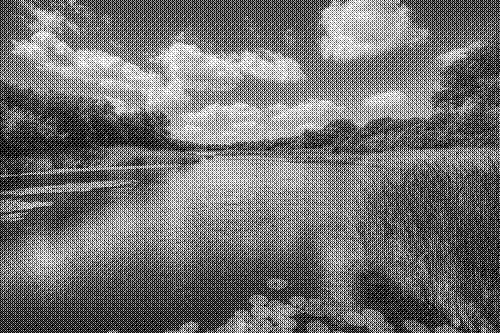
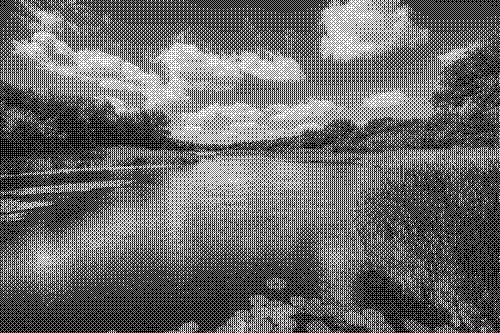
Corrected bayers ordered dithering to ensure it works as intended. The colour quantisation method wasn't being properly scaled to 255 colour space. Reorded the methods so they can be JIT compiled through Numba as static methods.

diff --git a/ditherer/ditherAlgorithm.py b/ditherer/ditherAlgorithm.py
@@ -1,7 +1,7 @@
 from abc import ABC, abstractmethod
 import numpy as np
 import matplotlib.pyplot as plt
-import numba
+from numba import njit
 import math
 
 class DitherAlgorithm(ABC):
@@ -9,7 +9,43 @@ class DitherAlgorithm(ABC):
     def ditherImage(self, pixArray, values, valueThresholds=None):
         pass
 
+
 class BayerOrdered(DitherAlgorithm):
+    @staticmethod
+    @njit
+    def _bayerDitherUnevenThreshold(pixArray, valueThresholds, matrix):
+        width, height = pixArray.shape
+        matrixWidth, matrixHeight = matrix.shape
+        for y in range(height):
+            for x in range(width):
+                ditherX = x % matrixWidth
+                ditherY = y % matrixHeight
+                ditherFactor = (matrix[ditherX, ditherY]  * (1/matrix.size)) - 0.5
+                ditherValue = max(0, min(255, pixArray[x, y] + (ditherFactor *  255)))
+                bestMatch = 0
+                bestDist = abs(valueThresholds[0] - ditherValue)
+                for i in range(1, len(valueThresholds)):
+                    dist = abs(valueThresholds[i] - ditherValue)
+                    if dist < bestDist:
+                        bestDist = dist
+                        bestMatch = i
+                pixArray[x, y] = valueThresholds[bestMatch]
+        return np.clip(pixArray, 0, 255)
+
+    @staticmethod
+    @njit
+    def _bayerDitherQuantised(pixArray, values, matrix):
+        width, height = pixArray.shape
+        matrixWidth, matrixHeight = matrix.shape
+        for y in range(height):
+            for x in range(width):
+                ditherX = x % matrixWidth
+                ditherY = y % matrixHeight
+                ditherFactor = (matrix[ditherX, ditherY]  * (1/matrix.size)) - 0.5
+                ditherValue = max(0, min(255, pixArray[x, y] + (ditherFactor *  255)))
+                pixArray[x, y] = math.floor(ditherValue * (values-1) / 255 + 0.5) * 255 / (values-1)
+        return np.clip(pixArray, 0, 255)
+
     def __init__(self):
         self.__matrixSize = 2
 
@@ -22,45 +58,51 @@ class BayerOrdered(DitherAlgorithm):
         matrix = matrix + np.tile(prevMatrix, (2, 2)) * 4
         return matrix
         
-    def ditherImage(self, pixArray, values=4, valueThresholds=None):
+    def ditherImage(self, pixArray, values, valueThresholds=None):
         matrix = self.__generateThresholdMap(self.__matrixSize)
-        width, height = pixArray.shape
-        matrixWidth, matrixHeight = matrix.shape
-        if valueThresholds is None or len(valueThresholds) != values:
-            valueThresholds = np.linspace(0, 255, values).astype(np.float32)
-        for y in range(height):
-            for x in range(width):
-                ditherX = x % matrixWidth
-                ditherY = y % matrixHeight
-                ditherValue = (matrix[ditherX, ditherY]  * (1/matrix.size)) - 0.5
-                ditherColour = pixArray[x, y] + (ditherValue *  255)
-                newColour = math.floor(ditherColour * (values-1) + 0.5) / (values-1)
-                colourIndex = (np.abs(valueThresholds - newColour)).argmin()
-                pixArray[x, y] = valueThresholds[colourIndex]
-        return np.clip(pixArray, 0, 255)
+        if valueThresholds is None:
+            return self._bayerDitherQuantised(pixArray, values, matrix)
+        else:
+            return self._bayerDitherUnevenThreshold(pixArray, valueThresholds, matrix)
+
     
     def setMatrixSize(self, value):
         self.__matrixSize = value if type(value) is int and value > 1 else self.__matrixSize
 
+
+
 class FloydSteinberg(DitherAlgorithm):
-    def ditherImage(self, pixArray, values=4, valueThresholds=None):
+
+    @staticmethod
+    @njit
+    def _floydSteinbergDither(pixArray, valueThresholds):
         width, height = pixArray.shape
-        if valueThresholds is None or len(valueThresholds) != values:
-            valueThresholds = np.linspace(0, 255, values).astype(np.float32)
         for y in range(height):
             for x in range(width):
                 oldPixel = pixArray[x, y]
-                #newPixel = 255 if oldPixel > 127 else 0
-                colourIndex = (np.abs(valueThresholds - oldPixel)).argmin()
-                newPixel = valueThresholds[colourIndex]
+                bestMatch = 0
+                bestDist = abs(valueThresholds[0] - oldPixel)
+                for i in range(1, len(valueThresholds)):
+                    dist = abs(valueThresholds[i] - oldPixel)
+                    if dist < bestDist:
+                        bestDist = dist
+                        bestMatch = i
+                newPixel = valueThresholds[bestMatch]
                 pixArray[x, y] = newPixel
                 quantError = oldPixel - newPixel
-                if xInBounds := x + 1 < width:
-                    pixArray[x + 1][y] = pixArray[x + 1][y] + quantError * 7/16
+                xInBounds = x + 1 < width
+                if xInBounds:
+                    pixArray[x + 1, y] = pixArray[x + 1, y] + quantError * 7/16
                 if y + 1 < height:
                     if x-1 >= 0:
-                        pixArray[x - 1][y + 1] = pixArray[x - 1][y + 1] + quantError * 3/16
-                    pixArray[x][y + 1] = pixArray[x][y + 1] + quantError * 5/16
+                        pixArray[x - 1, y + 1] = pixArray[x - 1, y + 1] + quantError * 3/16
+                    pixArray[x, y + 1] = pixArray[x, y + 1] + quantError * 5/16
                     if xInBounds:
-                        pixArray[x + 1][y + 1] = pixArray[x + 1][y + 1] + quantError * 1/16
-        return np.clip(pixArray, 0, 255)
+                        pixArray[x + 1, y + 1] = pixArray[x + 1, y + 1] + quantError * 1/16
+        return pixArray
+
+    def ditherImage(self, pixArray, values, valueThresholds=None):
+        if valueThresholds is None or len(valueThresholds) != values:
+            valueThresholds = np.linspace(0, 255, values).astype(np.float32)
+
+        return self._floydSteinbergDither(pixArray, valueThresholds)

diff --git a/main.py b/main.py
@@ -1,10 +1,13 @@
 from ditherer import ditherer as d
 from ditherer import ditherAlgorithm as da
 import matplotlib.pyplot as plt
+import numpy as np
 
 ed = d.ImageDitherer()
 filepath = r"assets\testInput2Colour.png"
-# ed.dither(filepath, da.FloydSteinberg())
+fs = da.FloydSteinberg()
 bo = da.BayerOrdered()
-bo.setMatrixSize(4)
+
 ed.dither(filepath, bo)
+
+

diff --git a/ditherer/ditherer.py b/ditherer/ditherer.py
@@ -12,7 +12,7 @@ class ImageDitherer():
     def __init__(self):
         pass
 
-    def dither(self, filePath, ditherMethod : DitherAlgorithm, values=4):
+    def dither(self, filePath, ditherMethod : DitherAlgorithm, values=3, valueThresholds = None):
         validFile = False
         try:
             image = Image.open(filePath)
@@ -23,7 +23,7 @@ class ImageDitherer():
         if validFile:
             imageData = self.__formatImage(image)
 
-            ditheredImage = ditherMethod.ditherImage(imageData, values)
+            ditheredImage = ditherMethod.ditherImage(imageData, values, valueThresholds)
             # self.__displayImage(ditheredImage)
             self.__saveImage(ditheredImage)
 